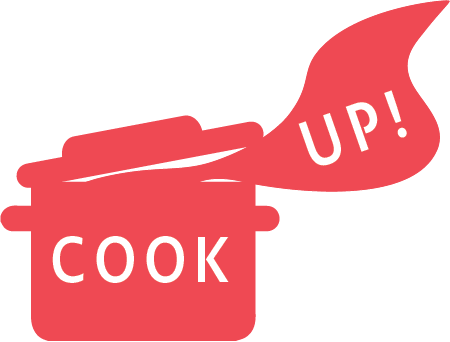
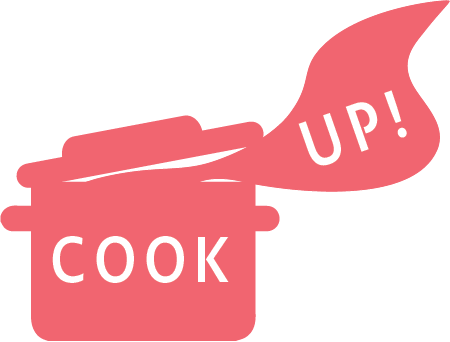
Changed color scheme. Fixed arrangement of 'send' comment button and more.

diff --git a/frontend/src/Feed.jsx b/frontend/src/Feed.jsx
@@ -82,6 +82,7 @@ function Feed() {
 
   return (
     <div>
+      <br />
       { feed.map((recipe, indx) => (
         <div key={_uniqueId()} className="box">
           <article className="media">
@@ -178,9 +179,11 @@ function Feed() {
                 </div>
               ))}
               {profile.username ? (
-                <div className="control">
-                  <textarea style={{ minHeight: '3em' }} onChange={(event) => { inputMap[recipe.id] = event.target.value; }} className="textarea has-fixed-size" placeholder="Leave a comment..." />
-                  <button type="button" className="button is-white is-pulled-right" onClick={() => { postComment(recipe); }}>Send</button>
+                <div className="field is-grouped">
+                  <div className="control is-expanded">
+                    <textarea style={{ minHeight: '3em' }} onChange={(event) => { inputMap[recipe.id] = event.target.value; }} className="textarea has-fixed-size" placeholder="Leave a comment..." />
+                  </div>
+                  <button type="button" className="button is-info is-right" onClick={() => { postComment(recipe); }}>Send</button>
                 </div>
               ) : null}
             </div>

diff --git a/frontend/src/theme.scss b/frontend/src/theme.scss
@@ -13,11 +13,13 @@ $pink: #FA7C91;
 $brown: #757763;
 $beige-light: #D0D1CD;
 $beige-lighter: #EFF0EB;
+$blue: #209CEE;
 
 $family-sans-serif: "Nunito", sans-serif;
 $grey-dark: $brown;
 $grey-light: $beige-light;
-$primary: $purple;
+$primary: $blue;
+$danger: $pink;
 $link: $pink;
 $widescreen-enabled: false;
 $fullhd-enabled: false;
@@ -29,13 +31,13 @@ $input-shadow: none;
 @import 'bulma/bulma.sass';
 
 .navbar {
-    background: #C7CAB9;
+    background: #EFF0EB;
     color: white;
     font-size: 30px;
 }
 
 .username {
-    color: #00d1b2;
+    color: $blue;
 }
 
 img {

diff --git a/frontend/src/CreateRecipe.jsx b/frontend/src/CreateRecipe.jsx
@@ -137,7 +137,7 @@ function CreateRecipe() {
           </div>
         </section>
         <footer className="modal-card-foot">
-          <input type="submit" value="Submit" className="button is-success" onClick={submitForm} />
+          <input type="submit" value="Submit" className="button is-info" onClick={submitForm} />
           <button type="button" className="button" onClick={() => { appContext.setEditRecipe(false); appContext.setRecipeVisible(false); }}>Cancel</button>
         </footer>
       </div>

diff --git a/frontend/src/App.jsx b/frontend/src/App.jsx
@@ -168,7 +168,7 @@ function App() {
               </div>
             </div>
             <div className="navbar-end">
-              <div className="navbar-item is-expanded">
+              <div className="navbar-item">
                 <div className="field has-addons">
                   <div className="control is-expanded">
                     <input onChange={(event) => { setFeedFilter({ search: event.target.value }); }} className="input" type="text" placeholder="Search" />
